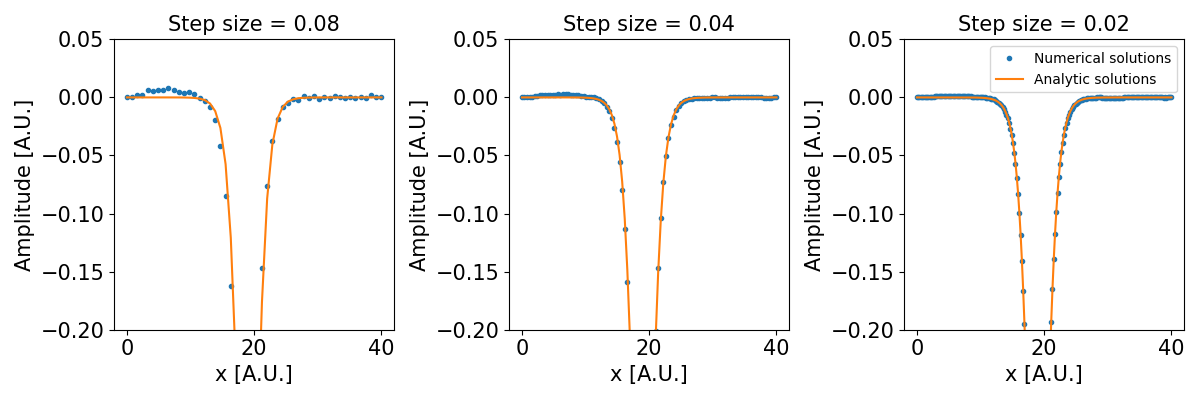
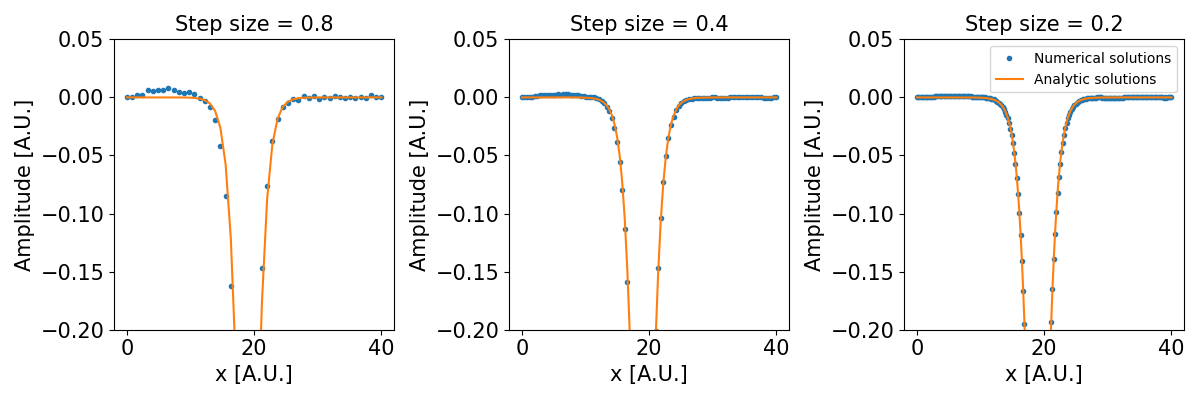
conv and advection 2

Changed region(s): [[0.8017, 0.03, 0.9558, 0.09], [0.4625, 0.03, 0.6167, 0.09], [0.1233, 0.03, 0.2775, 0.09]]

diff --git a/advection.py b/advection.py
@@ -15,36 +15,36 @@ t_size = int(T_max / Delta_t)  # Number of time steps
 x_series = np.linspace(0, X_max, x_size)  # Positions
 
 # Initialize solution array
-u_kink_init = np.zeros([x_size, t_size], dtype=float)
-u_soliton_init=np.copy(u_kink_init)
-# define the kink initial conditions
+u_gaus_init = np.zeros([x_size, t_size], dtype=float)
+u_soliton_init=np.copy(u_gaus_init)
+# define the gaus initial conditions
 def init(x,mu=X_max/2,sig=1):
     return (
         1.0 / (np.sqrt(2.0 * np.pi) * sig) * np.exp(-np.power((x - mu) / sig, 2.0) / 2)
     )
 
 # Initialize start conditions:
-u_kink_init[:, 0] = np.array([init(x) for x in x_series]) 
+u_gaus_init[:, 0] = np.array([init(x) for x in x_series]) 
 
 # Define, for comparison, the soliton initial condition
 t_0 = 20                                  # Initial time
 u_soliton_init[:, 0] = np.array([soliton_solution(x, t_0) for x in x_series])  # Soliton at t0
 
 # Solve the KdV equation
-u_solution_sol = KdV_Solver(u_soliton_init, Delta_x, Delta_t) # Solutions for time up to T_max
+u_solution_sol = KdV_Solver(u_soliton_init, Delta_x, Delta_t, lin=True, mu=0) # Solutions for time up to T_max
 
-u_solution_kink = KdV_Solver(u_kink_init, Delta_x, Delta_t, lin=True, mu=0)
+u_solution_gaus = KdV_Solver(u_gaus_init, Delta_x, Delta_t, lin=True, mu=0)
 
 
 # Extract six sample solutions from each of them:
 T_series=np.linspace(0,3,6)
 u_sol_list=[u_solution_sol[:, int(t / Delta_t)] for t in T_series]
-u_kink_list=[u_solution_kink[:, int(t / Delta_t)] for t in T_series]
+u_gaus_list=[u_solution_gaus[:, int(t / Delta_t)] for t in T_series]
 
 # Save zip file:
 np.savez('Data\\advection.npz', 
          u_sol=u_sol_list, 
-         u_kink=u_kink_list, 
+         u_gaus=u_gaus_list, 
          x_series=x_series,
          T=T_series
          )

diff --git a/advection_plot.py b/advection_plot.py
@@ -9,7 +9,7 @@ data = np.load('Data\\advection.npz')
 
 # Access individual arrays
 u_solution_sol = data['u_sol']
-u_solution_kink= data['u_kink']
+u_solution_gaus= data['u_gaus']
 x_series = data['x_series']
 T_series=data['T']
 # Plotting 
@@ -17,7 +17,7 @@ fig,axes = plt.subplots(2,3,figsize=(12,8))
 
 
 for i, ax in enumerate(axes.flat):
-        ax.plot(x_series, u_solution_kink[i],".",label="Kink")
+        ax.plot(x_series, u_solution_gaus[i],".",label="Gaus")
         ax.plot(x_series, u_solution_sol[i],".",label="Soliton")
         # Axes title
         ax.set_title(f't = {round(T_series[i],2)}', fontsize=15)

diff --git a/solitons_comparison_plot.py b/solitons_comparison_plot.py
@@ -56,7 +56,7 @@ u_conv_sol_list=[u_solution[3],u_sol_2,u_sol_4]
 u_conv_ana_list=[u_ana_list[3],u_ana_2,u_ana_4]
 
 x_series_list=[x_series,x_series2,x_series4]
-DeltaX_list=[0.08,0.04,0.02]
+DeltaX_list=[0.8,0.4,0.2]
 for i, ax in enumerate(axes.flat):
         ax.plot(x_series_list[i],u_conv_sol_list[i],".",label="Numerical solutions")
         ax.plot(x_series_list[i],u_conv_ana_list[i],label="Analytic solutions")
@@ -79,5 +79,3 @@ plt.tight_layout()
 plt.savefig("Figures//solitons_convergence.png")
 plt.show()
 plt.clf()
-
-
